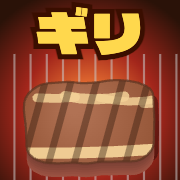
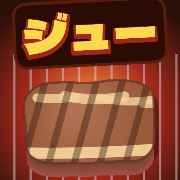
feat: ゲームの名前を「ジュー」に（旧名 焼肉ギリギリ）
- タイトル・ホーム画面の名前・アイコン・試遊会の画面を「ジュー」に
- タイトルのロゴを大きく（短い名前を一瞬で覚えられるように）
- URL とリポジトリ名は、印刷した試遊会の QR を変えないためにそのまま

diff --git a/tools/playtest.js b/tools/playtest.js
@@ -126,14 +126,14 @@ const server = http.createServer((req, res) => {
 
 // ===== 配る QR の画面（URL が変わったら描き直す） =====
 function qrPage() {
-  return `<!doctype html><html lang="ja"><head><meta charset="utf-8"><title>焼肉ギリギリ 試遊会</title>
+  return `<!doctype html><html lang="ja"><head><meta charset="utf-8"><title>ジュー 試遊会</title>
 <meta name="viewport" content="width=device-width, initial-scale=1">
 <script src="https://cdnjs.cloudflare.com/ajax/libs/qrcodejs/1.0.0/qrcode.min.js"></script>
 <style>body{margin:0;background:#2a1a14;color:#fff;font-family:'Hiragino Sans',sans-serif;text-align:center;padding:24px}
 h1{color:#ffd84d;font-size:40px;margin:8px 0}#qr{display:inline-block;background:#fff;padding:18px;border-radius:16px;margin:16px 0;min-width:320px;min-height:320px}
 .url{font-size:18px;word-break:break-all;color:#ffd9b0}.sub{font-size:13px;color:#b89a88;margin-top:6px;word-break:break-all}.fixed{display:inline-block;margin-top:8px;padding:4px 12px;border-radius:99px;background:#3d6b2a;font-size:14px}.wait{font-size:20px;color:#ffb3a0;min-height:1.4em}ol{display:inline-block;text-align:left;font-size:18px;line-height:1.8}
 a{color:#ffd84d}</style></head><body>
-<h1>焼肉ギリギリ 試遊会</h1>
+<h1>ジュー 試遊会</h1>
 <div id="wait" class="wait">URL を作っています…（10秒ほど）</div>
 <div id="qr"></div><div class="url" id="url"></div><div class="sub" id="sub"></div>
 <ol><li>スマホのカメラで QR を読む</li><li>名前（ニックネーム）を入れて「焼く」</li><li>終わったら「どうだった？」を押して送る</li><li>スマホを次の人に回すときは「次の人に渡す」</li></ol>
@@ -260,7 +260,7 @@ h1{color:#ffd84d;margin:0 0 4px}h2{color:#ffd9b0;font-size:18px;margin:26px 0 8p
 table{width:100%;border-collapse:collapse;background:#2d1b12;border-radius:12px;overflow:hidden}td,th{padding:8px 10px;border-bottom:1px solid #3d2417;text-align:left;font-size:14px}th{color:#ffd9b0;font-weight:normal}
 ul{list-style:none;padding:0;margin:0}li{background:#2d1b12;border-radius:10px;padding:8px 12px;margin-bottom:6px;font-size:15px}.f{white-space:nowrap}
 .bar{display:flex;align-items:center;gap:8px;font-size:14px;margin:4px 0}.bar i{display:block;height:14px;background:#ff7a2f;border-radius:7px}</style></head><body>
-<h1>焼肉ギリギリ 試遊会の集計</h1><div class="note">10秒ごとに新しくなります。記録はこの Mac の playtest-data/log.jsonl にだけあります。</div>
+<h1>ジュー 試遊会の集計</h1><div class="note">10秒ごとに新しくなります。記録はこの Mac の playtest-data/log.jsonl にだけあります。</div>
 <h2>ひと目で</h2><div class="cards">
 ${card(ps.length, '遊んだ人')}
 ${card(done, '最後まで遊んだ回数', `やり直し ${quitN}回・離れたまま ${gone.length}回`)}

diff --git a/index.html b/index.html
@@ -7,11 +7,11 @@
 <meta name="theme-color" content="#2a1a14">
 <meta name="apple-mobile-web-app-capable" content="yes">
 <meta name="mobile-web-app-capable" content="yes">
-<meta name="apple-mobile-web-app-title" content="焼肉ギリギリ">
+<meta name="apple-mobile-web-app-title" content="ジュー">
 <link rel="icon" type="image/png" sizes="192x192" href="icon-192.png">
 <link rel="apple-touch-icon" href="icon-180.png">
 <link rel="manifest" href="manifest.json">
-<title>焼肉ギリギリ</title>
+<title>ジュー（焼肉）</title>
 <link rel="preconnect" href="https://fonts.googleapis.com">
 <link rel="preconnect" href="https://fonts.gstatic.com" crossorigin>
 <link href="https://fonts.googleapis.com/css2?family=Dela+Gothic+One&display=swap" rel="stylesheet">
@@ -34,8 +34,8 @@
   #title { display: block; padding: 0; }
   #titleFrame { position: absolute; left: 0; top: 0; width: 400px; height: 760px; transform-origin: 0 0; }
   #title .tband { position: absolute; left: 0; right: 0; top: 0; height: 210px; display: flex; flex-direction: column; align-items: center; justify-content: center; padding-top: 8px; }
-  #title .logo { font-size: 46px; text-align: center; }
-  #title .logo small { font-size: 16px; margin-bottom: 4px; }
+  #title .logo { font-size: 74px; line-height: 1.05; text-align: center; }
+  #title .logo small { font-size: 18px; letter-spacing: .3em; margin-bottom: 2px; }
   #title .tagline { margin: 14px 0 0; padding: 4px 14px; font-size: 13px; font-weight: 700; letter-spacing: .08em; color: #ffd9b0; background: rgba(20,10,5,.55); border-radius: 999px; }
   #title .card { position: absolute; left: 16px; right: 16px; bottom: 12px; width: auto; max-height: none; padding: 12px 16px 10px; background: rgba(45,27,18,.95); border-radius: 20px; }
   #title .stage-next { margin: 0; font-size: 13px; }
@@ -164,7 +164,7 @@
 <div class="overlay" id="title">
  <div id="titleFrame">
   <div class="tband">
-    <h1 class="logo"><small>焼き加減は</small>焼肉ギリギリ</h1>
+    <h1 class="logo"><small>焼肉</small>ジュー</h1>
     <p class="tagline">焼いて、返して、余熱を読む。</p>
     <div class="best" id="titleBest"></div>
   </div>
@@ -253,7 +253,7 @@
 
 <div class="overlay" id="gate" hidden>
   <div class="card">
-    <h1 class="logo" style="font-size:36px">焼肉ギリギリ</h1>
+    <h1 class="logo" style="font-size:36px">ジュー</h1>
     <p class="sub">合言葉を入れてね</p>
     <input id="gateInput" class="field" type="text" autocomplete="off" autocapitalize="off" placeholder="合言葉">
     <p class="tip" id="gateMsg">&nbsp;</p>

diff --git a/play/index.html b/play/index.html
@@ -4,7 +4,7 @@
 <meta charset="utf-8">
 <meta name="viewport" content="width=device-width, initial-scale=1, viewport-fit=cover">
 <meta name="robots" content="noindex">
-<title>焼肉ギリギリ 試遊会</title>
+<title>ジュー 試遊会</title>
 <style>
   body { margin: 0; min-height: 100vh; display: flex; align-items: center; justify-content: center; background: #2a1a14; color: #fff; font-family: 'Hiragino Sans', sans-serif; text-align: center; padding: 24px; box-sizing: border-box; }
   h1 { color: #ffd84d; font-size: 30px; margin: 0 0 16px; }
@@ -16,7 +16,7 @@
 </head>
 <body>
 <div>
-  <h1>焼肉ギリギリ 試遊会</h1>
+  <h1>ジュー 試遊会</h1>
   <p id="msg">つないでいます<span class="dot">…</span></p>
   <button id="again" hidden>もう一度</button>
 </div>

diff --git a/src/sim.js b/src/sim.js
@@ -1,4 +1,4 @@
-// 焼肉ギリギリ：ゲームの中身（焼け方・余熱・冷め・客・採点）。
+// ジュー：ゲームの中身（焼け方・余熱・冷め・客・採点）。
 // 画面や音には触らない。ブラウザでは window.YG、node（テスト）では require で使う。
 // 見た目と採点は、どちらもこのファイルの状態（meat.side / meat.warm など）だけを見る。
 (function (root) {

diff --git a/src/draw.js b/src/draw.js
@@ -1,4 +1,4 @@
-// 焼肉ギリギリ：絵をかく。すべて sim.js の状態（面の焼け具合・温かさ・余熱）から描く。
+// ジュー：絵をかく。すべて sim.js の状態（面の焼け具合・温かさ・余熱）から描く。
 (function (root) {
   'use strict';
   const YG = root.YG;

diff --git a/src/main.js b/src/main.js
@@ -1,4 +1,4 @@
-// 焼肉ギリギリ：画面の流れ・操作・演出。ゲームの中身は sim.js（YG）にある
+// ジュー：画面の流れ・操作・演出。ゲームの中身は sim.js（YG）にある
 (function () {
   'use strict';
   const { L, W, H } = YD;

diff --git a/README.md b/README.md
@@ -1,4 +1,6 @@
-# 焼肉ギリギリ
+# ジュー（焼肉）
+
+旧名「焼肉ギリギリ」。URL とリポジトリ名（yakiniku-girigiri）は、印刷した試遊会の QR を変えないために そのまま。
 
 焼き加減を見きわめて肉を焼く、スマホ向けのブラウザゲーム（オリジナルのクソゲー）です。
 限られた網で、何枚かの肉を同時に焼きます。表と裏の焼け具合と、網から上げたあとの余熱を読みます。焼けた肉は、好みに合う客へ出します。1回は75秒です。
